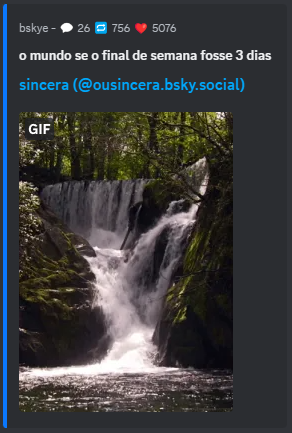
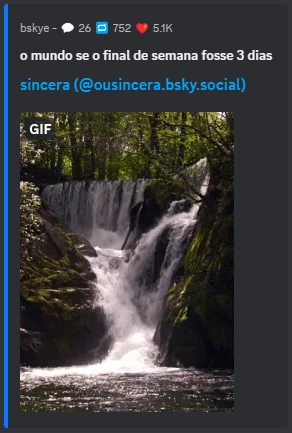
feat: better metric formatting

diff --git a/src/template/discord/post.ts b/src/template/discord/post.ts
@@ -2,7 +2,7 @@ import { isView as isExternalView } from '@atproto/api/dist/client/types/app/bsk
 import { isView as isViewImage } from '@atproto/api/dist/client/types/app/bsky/embed/images';
 import { isMain as isMainVideo, type Main as MainVideo } from '@atproto/api/dist/client/types/app/bsky/embed/video';
 import { ThreadViewPost } from '@atproto/api/dist/client/types/app/bsky/feed/defs';
-import { generateOembedUrl } from '../../util';
+import { generateOembedUrl, metricsFormatter } from '../../util';
 
 function getMetaTags(host: string, userHandler: string, postId: string, thread: ThreadViewPost): string[] {
   const author = thread.post.author;
@@ -10,7 +10,17 @@ function getMetaTags(host: string, userHandler: string, postId: string, thread: 
   // eslint-disable-next-line @typescript-eslint/no-explicit-any
   const description = (thread.post.record as any).text ?? '';
   const { likeCount, replyCount, repostCount } = thread.post;
-  const title = `💬 ${replyCount} 🔁 ${repostCount} ❤ ${likeCount}`;
+
+  let title = '';
+  if (replyCount !== undefined) {
+    title += `💬 ${metricsFormatter.format(replyCount)} `;
+  }
+  if (repostCount !== undefined) {
+    title += `🔁 ${metricsFormatter.format(repostCount)} `;
+  }
+  if (likeCount !== undefined) {
+    title += `❤ ${metricsFormatter.format(likeCount)}`;
+  }
   const oembedJsonUrl = generateOembedUrl(host, postUrl, `${author.displayName} (@${author.handle})`, description, title);
 
   const metaTags = [

diff --git a/src/template/discord/profile.ts b/src/template/discord/profile.ts
@@ -1,10 +1,21 @@
 import { type OutputSchema as Profile } from '@atproto/api/dist/client/types/app/bsky/actor/getProfile';
-import { generateOembedUrl } from '../../util';
+import { generateOembedUrl, metricsFormatter } from '../../util';
 
 function getMetaTags(host: string, profile: Profile): string[] {
   const profileUrl = `https://bsky.app/profile/${profile.handle}/`;
   const description = profile.description ?? '';
-  const title = '';
+  const { followersCount, followsCount, postsCount } = profile;
+
+  let title = '';
+  if (followersCount !== undefined) {
+    title += `👥 ${metricsFormatter.format(followersCount)} `;
+  }
+  if (followsCount !== undefined) {
+    title += `➡ ${metricsFormatter.format(followsCount)} `;
+  }
+  if (postsCount !== undefined) {
+    title += `📸 ${metricsFormatter.format(postsCount)}`;
+  }
   const oembedJsonUrl = generateOembedUrl(host, profileUrl, `${profile.displayName} (@${profile.handle})`, description, title);
 
   const metaTags = [

diff --git a/src/util.ts b/src/util.ts
@@ -6,3 +6,5 @@ export function generateOembedUrl(host: string, link: string, title: string, aut
   const params = new URLSearchParams({ author, link, title, provider });
   return `${host}/oembed?${params}`;
 }
+
+export const metricsFormatter = Intl.NumberFormat(undefined, { notation: 'compact', maximumFractionDigits: 1 });

diff --git a/README.md b/README.md
@@ -2,7 +2,7 @@
 
 # bskye
 
-**Embed Bluesky videos, GIFs and images on Discord.**
+**Embed Bluesky videos, GIFs and images on Discord, WhatsApp and Telegram.**
 
 Written in TypeScript as a [Cloudflare Worker](https://workers.cloudflare.com/).
 
@@ -10,21 +10,27 @@ Written in TypeScript as a [Cloudflare Worker](https://workers.cloudflare.com/).
 [![Test](https://github.com/FerroEduardo/bskye/actions/workflows/test.yaml/badge.svg)](https://github.com/FerroEduardo/bskye/actions/workflows/test.yaml)
 </div>
 
-
-
 ----
 
 ## Add `e` after `bsky` to make it `bskye.app`
 
 ## Embed Videos
 
-![](/.docs/embed-example/video.png)
+![Video Embed Example](/.docs/embed-example/video.png)
 
 ## Embed GIFs
 
-![](/.docs/embed-example/gif.png)
+![GIF Embed Example](/.docs/embed-example/gif.png)
 
 ## Embed Images
 
-![](/.docs/embed-example/single-image.png)
-![](/.docs/embed-example/multiple-images.png)
+![Single Image Embed Example](/.docs/embed-example/single-image.png)
+![Multiple Images Embed Example](/.docs/embed-example/multiple-images.png)
+
+## Embed Profiles
+
+![Profile Embed Example](/.docs/embed-example/profile.png)
+
+## Disclaimer
+
+While bskye supports Discord, full functionality for WhatsApp and Telegram may be limited.
